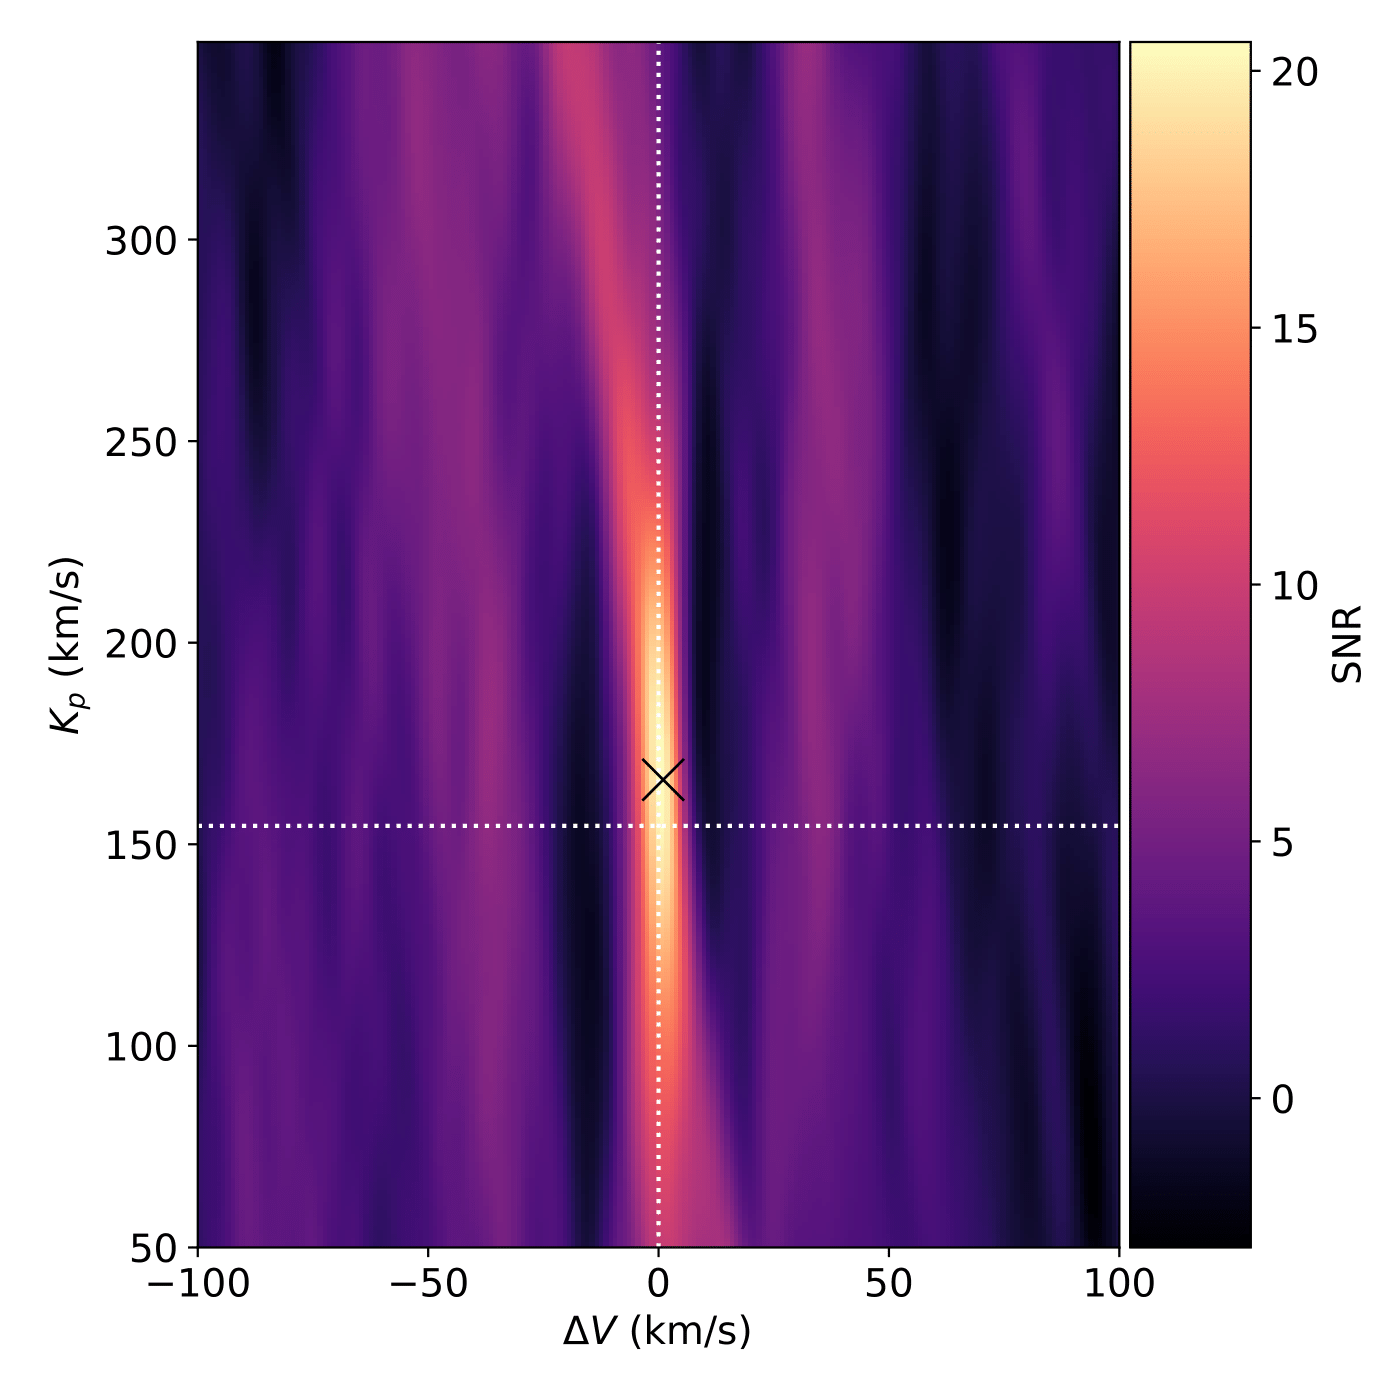
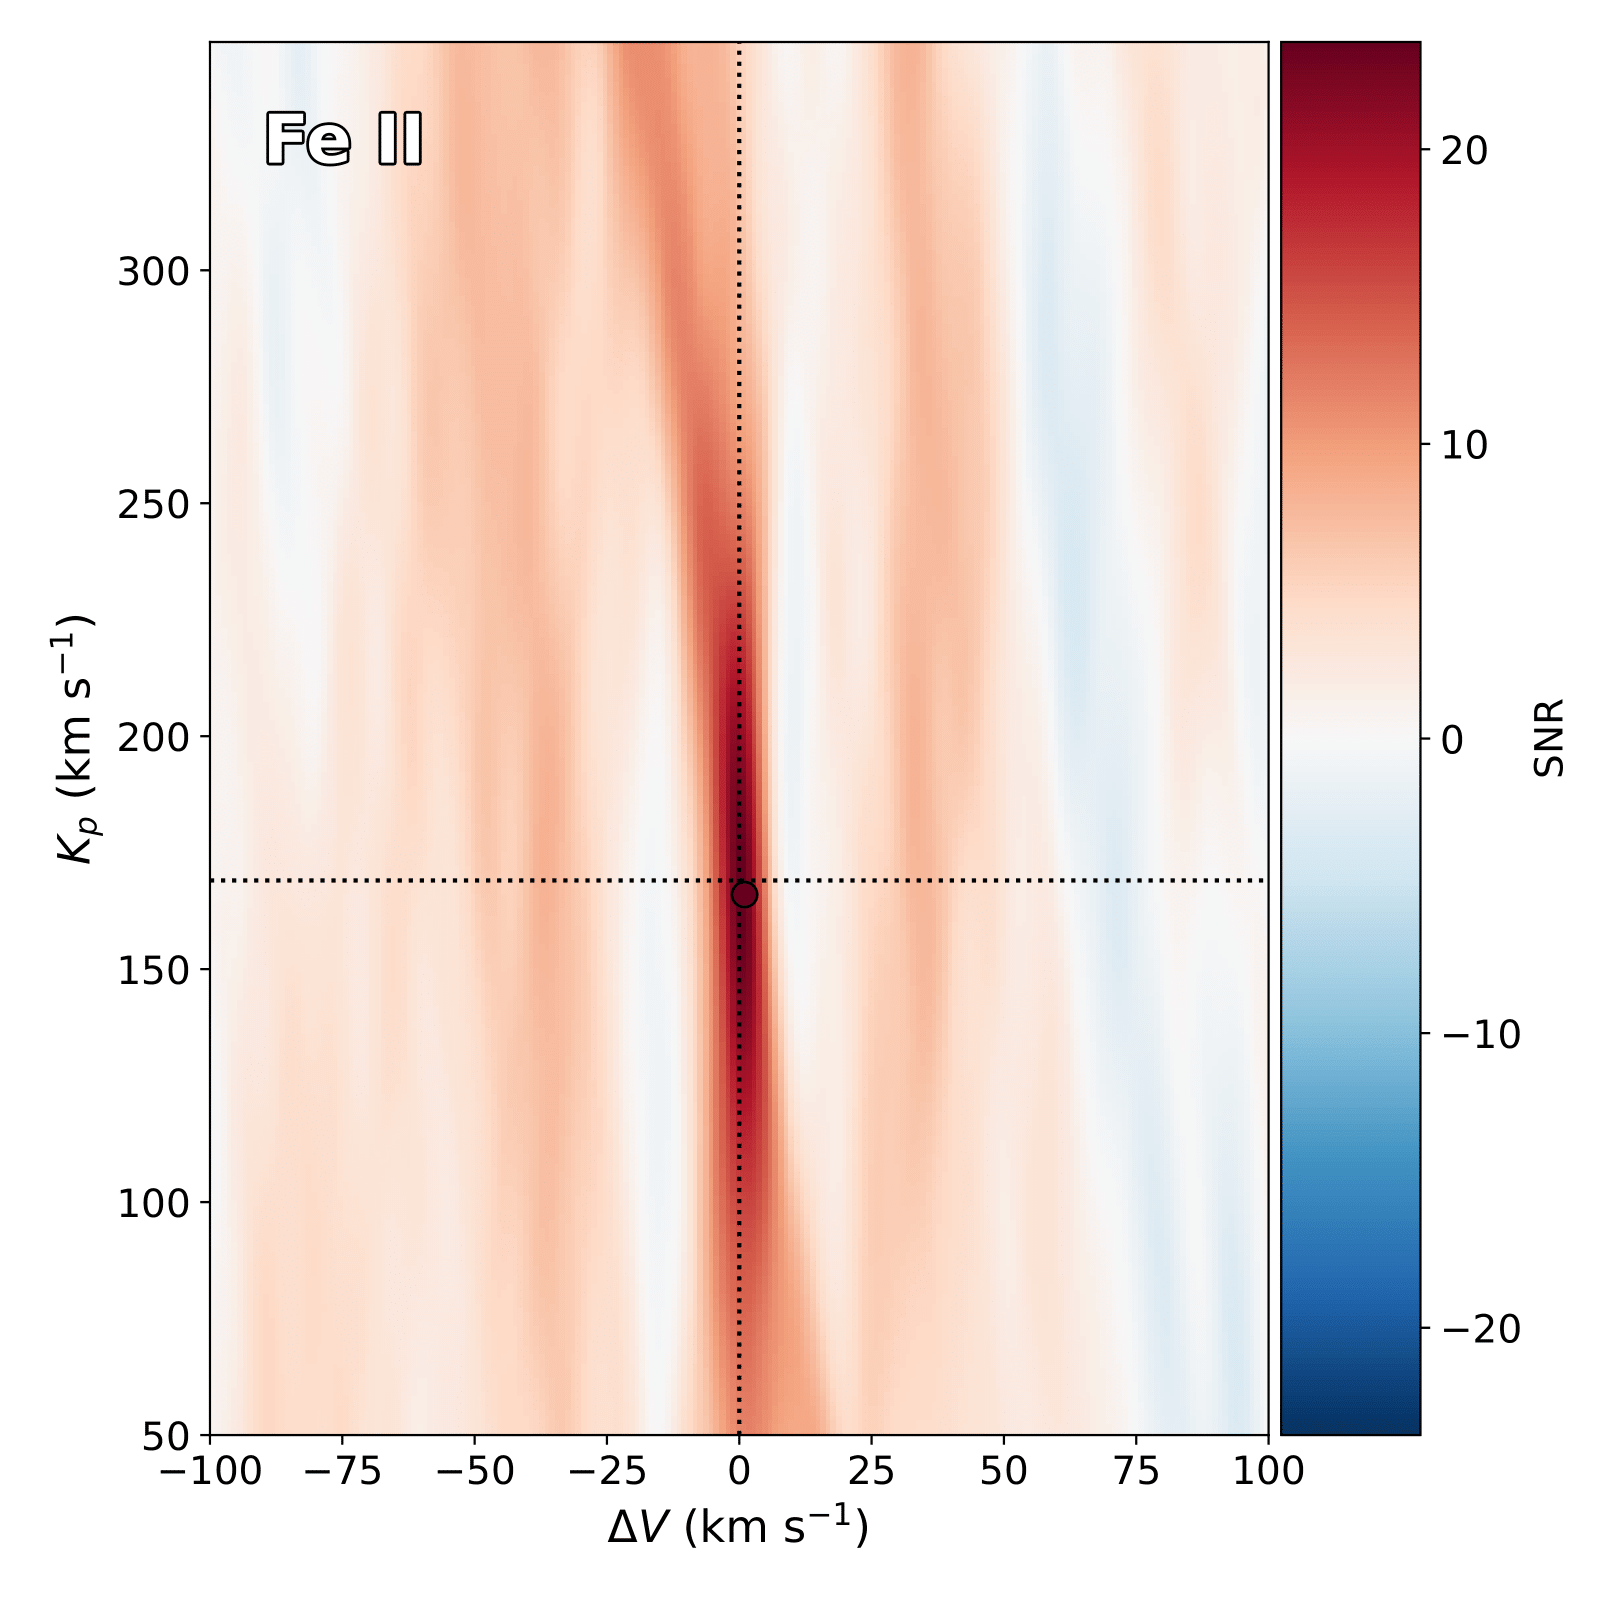
research update WIP

diff --git a/research.html b/research.html
@@ -137,34 +137,40 @@
                 <!-- Research Section -->
                 <li class="research-item" data-date="2023–present">
                     <div class="text-content">
-                        <h3>High-Resolution Cross-Correlation Transmission Spectroscopy of KELT-20b</h3>
-                        <p>
-                            In January 2024, I presented a 
+                        <h3>Characterizing exoplanet atmospheres</h3>
+                        
+                        <p><strong>High-level overview:</strong></p>
+                        
+                        <p>Ultra hot Jupiters are an exceptional class of <a href="https://en.wikipedia.org/wiki/Exoplanet">exoplanets</a>. They rapidly orbit their host stars in close proximity, so they are tidally locked with puffy atmospheres that reach more than 2,200 degrees Kelvin. With high-quality observations, we can study the extreme physics that is theorized to occur in these atmospheres. We observed one such exoplanet, KELT-20b, with the Potsdam Echelle Polarimetric and Spectroscopic Instrument (PEPSI) on the Large Binocular Telescope (LBT) located in Mt. Graham, Arizona.</p>
+                        
+                        <p>To examine the atmosphere, we collect the light from the host star that passes through the exoplanet's atmosphere during a <a href="https://en.wikipedia.org/wiki/Astronomical_transit">transit</a>, some of which is absorbed by constituent elements in the atmosphere. Due to the <a href="https://en.wikipedia.org/wiki/Quantum_mechanics">quantum</a> nature of electrons, each atom and molecule can only absorb photons of specific wavelengths. Thus, we can identify the elements present in the atmosphere by the wavelengths of light that are absorbed. Typically, exoplanet researchers take many exposures over the course of a transit, then combine their data to create a <a href="https://en.wikipedia.org/wiki/Absorption_spectroscopy#Absorption_spectrum">transmission spectrum</a> that shows how much light is absorbed at each wavelength. Instead of measuring the transmission spectrum exclusively, it is often advantageous to calculate the similarity between the observed spectrum and a computer-generated spectrum with the <a href="https://en.wikipedia.org/wiki/Cross-correlation">cross-correlation</a> method.</p>
+        
+                        <p>By analyzing these absorption features in detail, we can not only pinpoint the chemical makeup of the exoplanet's atmosphere but also probe the underlying physical processes. We can infer 
+                            
+                            
+                            This analysis allows researchers to infer temperature gradients, wind speeds, and even potential weather patterns that arise from the intense irradiation of the host star.</p>
+
+
+                        <p><strong>For other exoplanet researchers:</strong></p>
+                        <p>In January 2024, I presented a 
                             <a href="https://aas243-aas.ipostersessions.com/Default.aspx?s=89-34-93-49-20-C4-FB-46-1F-28-CD-79-11-D0-C0-38">
-                                poster
-                            </a> 
-                            on my analysis of atmospheric physics of KELT-20b, an ultra hot Jupiter exoplanet. 
+                            poster</a> at the 243rd American Astronomical Society meeting on my analysis of atmospheric physics of KELT-20b, an ultra hot Jupiter exoplanet. 
                             For a more detailed summary, please see the 
                             <a href="https://ui.adsabs.harvard.edu/abs/2024AAS...24317909L/abstract">abstract</a>. 
                             I defended my 
                             <a href="https://kb.osu.edu/handle/1811/105450">undergraduate thesis</a> 
-                            on this topic in December 2024 and am currently preparing a manuscript for submission 
-                            to a peer-reviewed journal in collaboration with 
+                            on this topic in December 2024 and submitted a manuscript 
+                            to the Astronomical Journal in March 2025. This work was completed in collaboration with 
                             <a href="https://www.astronomy.ohio-state.edu/johnson.7240/">Dr. Marshall Johnson</a>, 
                             <a href="https://www.jiwang.io/#/">Prof. Ji Wang</a>, et al.
                         </p>
-                        <p>
-                            Using signal processing and statistical analysis, we identified previously undetected atoms 
-                            and ions and revealed wind speed asymmetry between opposite sides of the exoplanet attributable 
-                            to three-dimensional dynamical processes. Recently, we analyzed the dynamics of several atoms 
-                            during the planet's transit at an unprecedentedly high time resolution. This analysis enabled 
-                            us to map wind patterns to various underlying atmospheric circulation mechanisms by comparing 
-                            the results with computer models. We also provided a proof-of-concept constraint on KELT-20b’s 
-                            magnetic field strength by adapting recent magnetohydrodynamics theory to our data—representing, 
-                            to our knowledge, the first calculation of an exoplanet's magnetic field strength with transmission 
-                            spectra and the first observational constraint entirely.
-                        </p>
+                        <p>Using signal processing and statistical analysis, we detected the presence of gaseous iron and ionized iron, along with other atoms in KELT-20b's atmosphere.</p>
+                        
+                        <p>We also revealed wind speed asymmetry between opposite sides of the exoplanet attributable to three-dimensional dynamical processes. Recently, we analyzed the dynamics of several atoms during the planet's transit at an unprecedentedly high time resolution. This analysis enabled us to map wind patterns to various underlying atmospheric circulation mechanisms by comparing the results with computer models.</p>
+                        
+                        <p>We also provided a proof-of-concept constraint on KELT-20b’s magnetic field strength by adapting recent magnetohydrodynamics theory to our data—representing, to our knowledge, the first calculation of an exoplanet's magnetic field strength with transmission spectra and the first observational constraint entirely.</p>
                     </div>
+                    
                     <div class="plot-content">
                         <img src="research-figures/spectraIndArms.Fe I.KELT-20b.inverted-transmission-better-1.png" style="width: 60%; height: auto;">
                         <figcaption>
